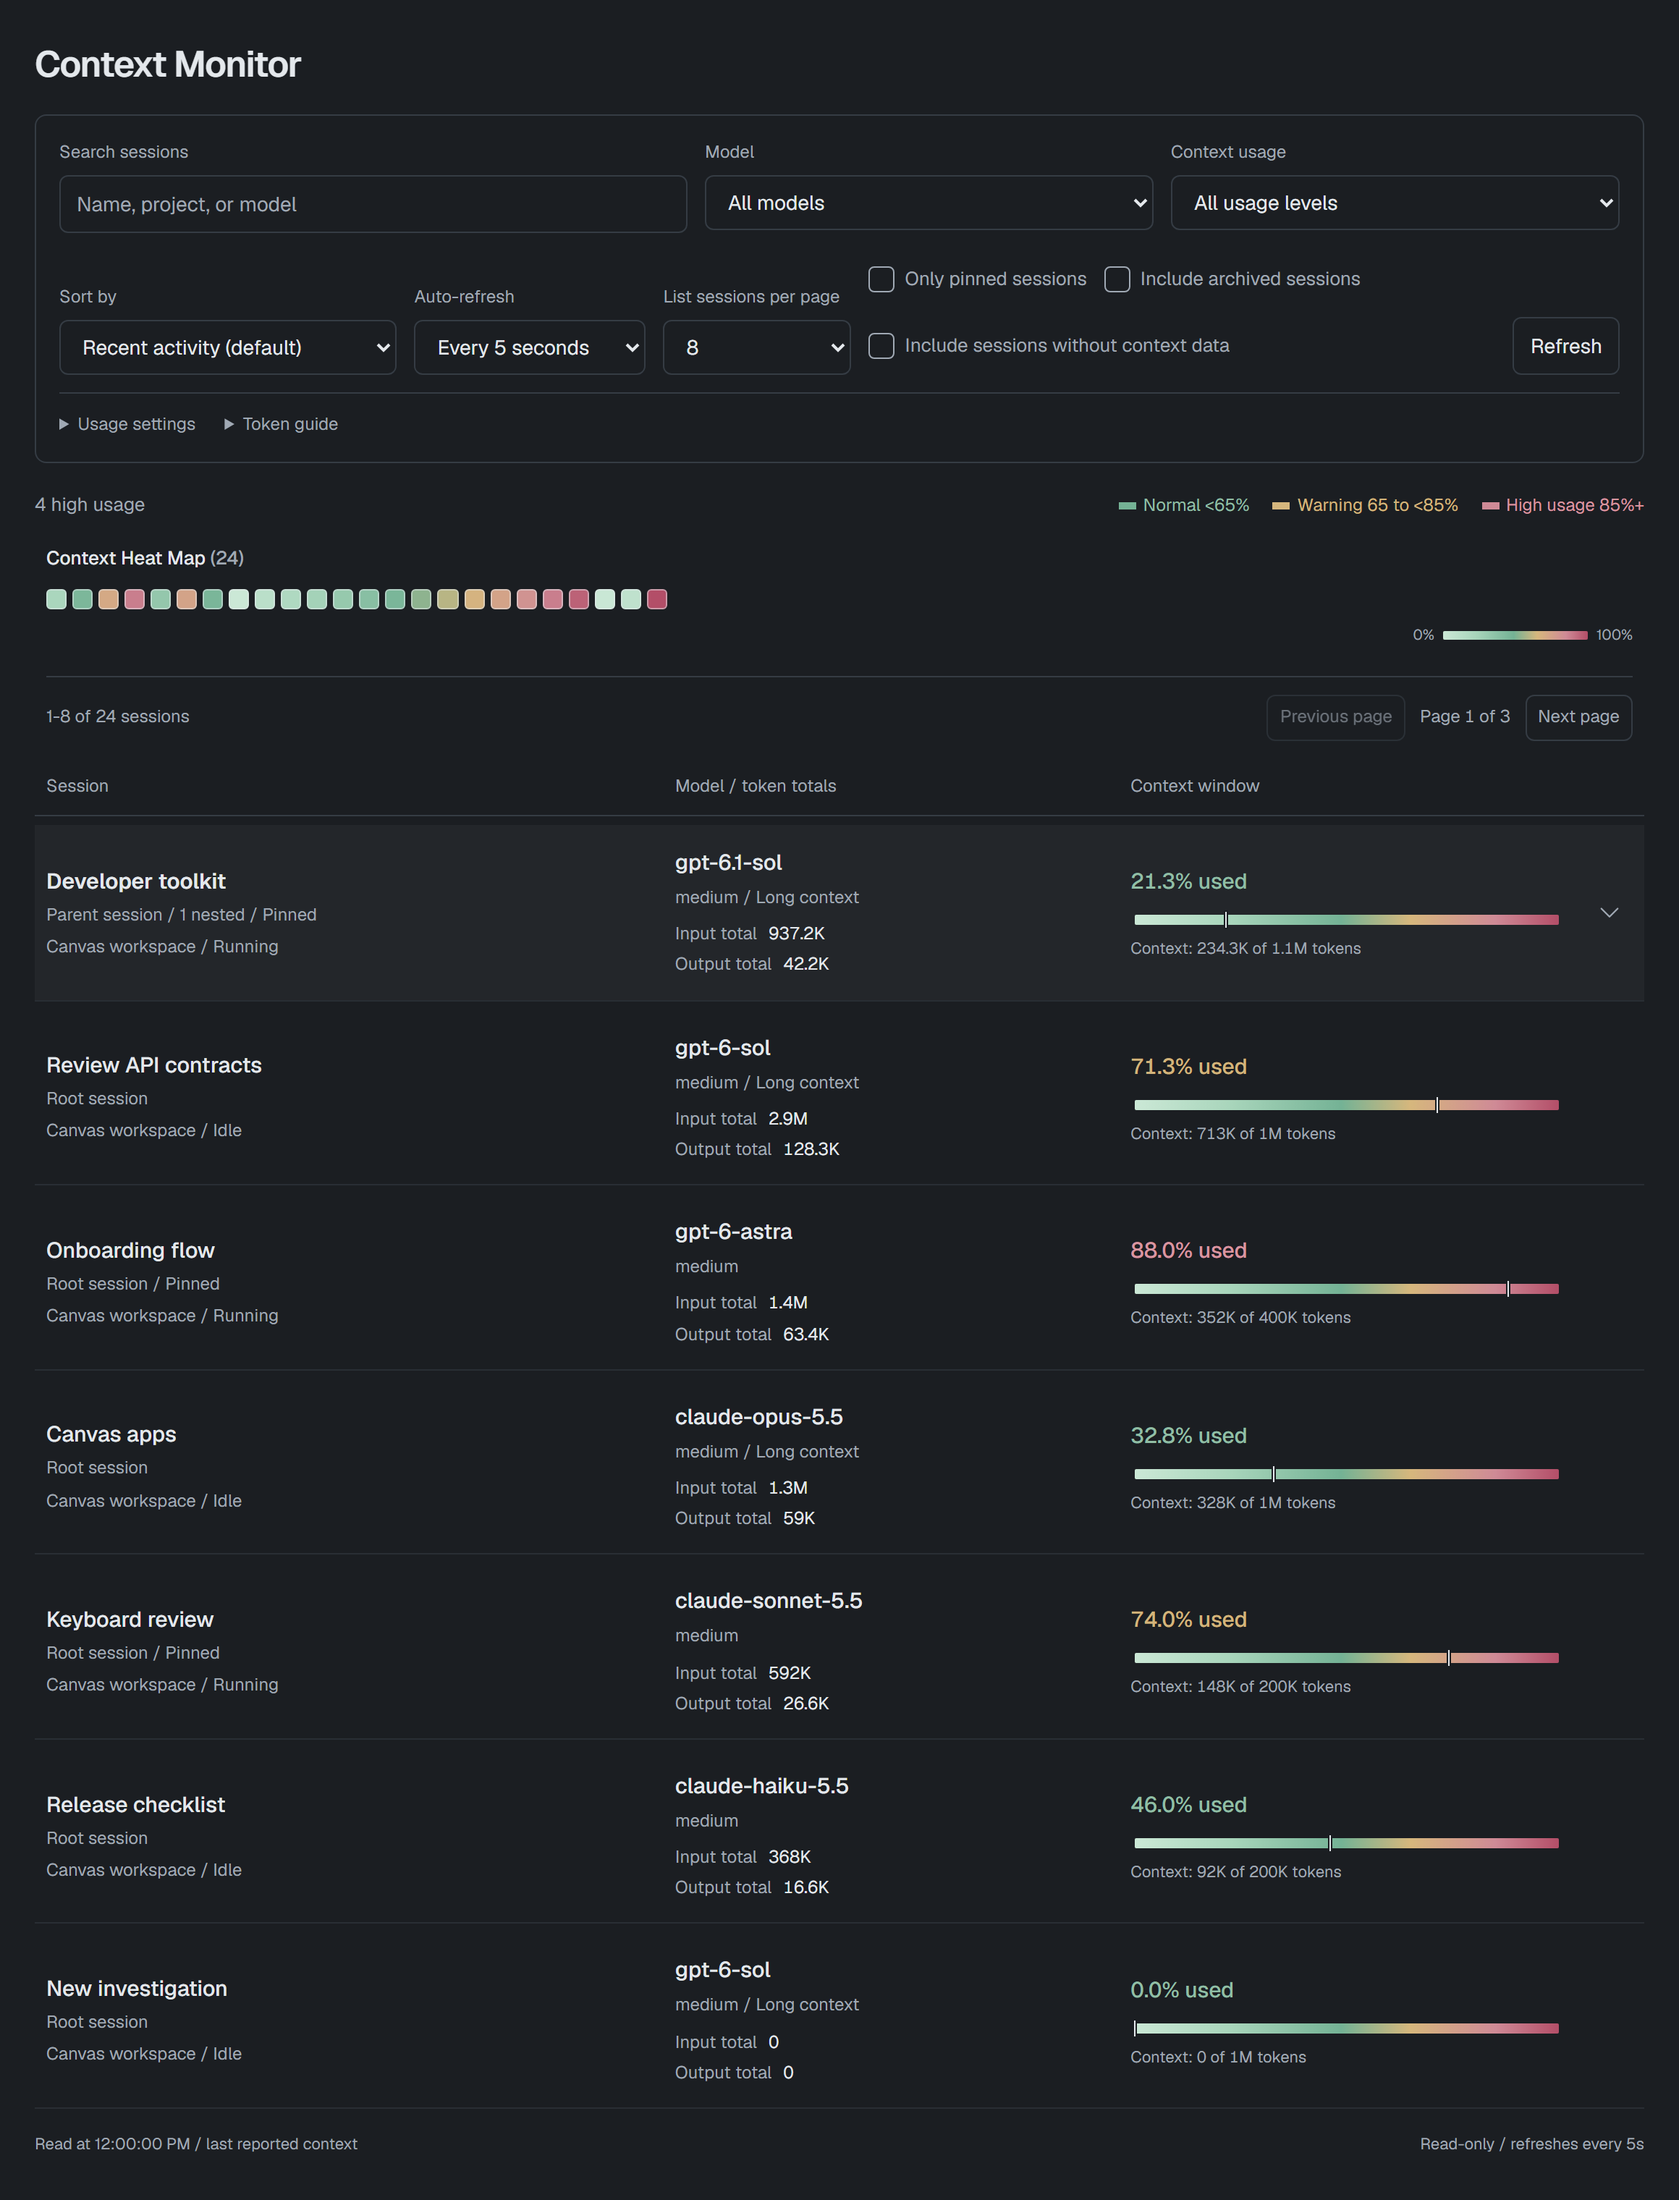
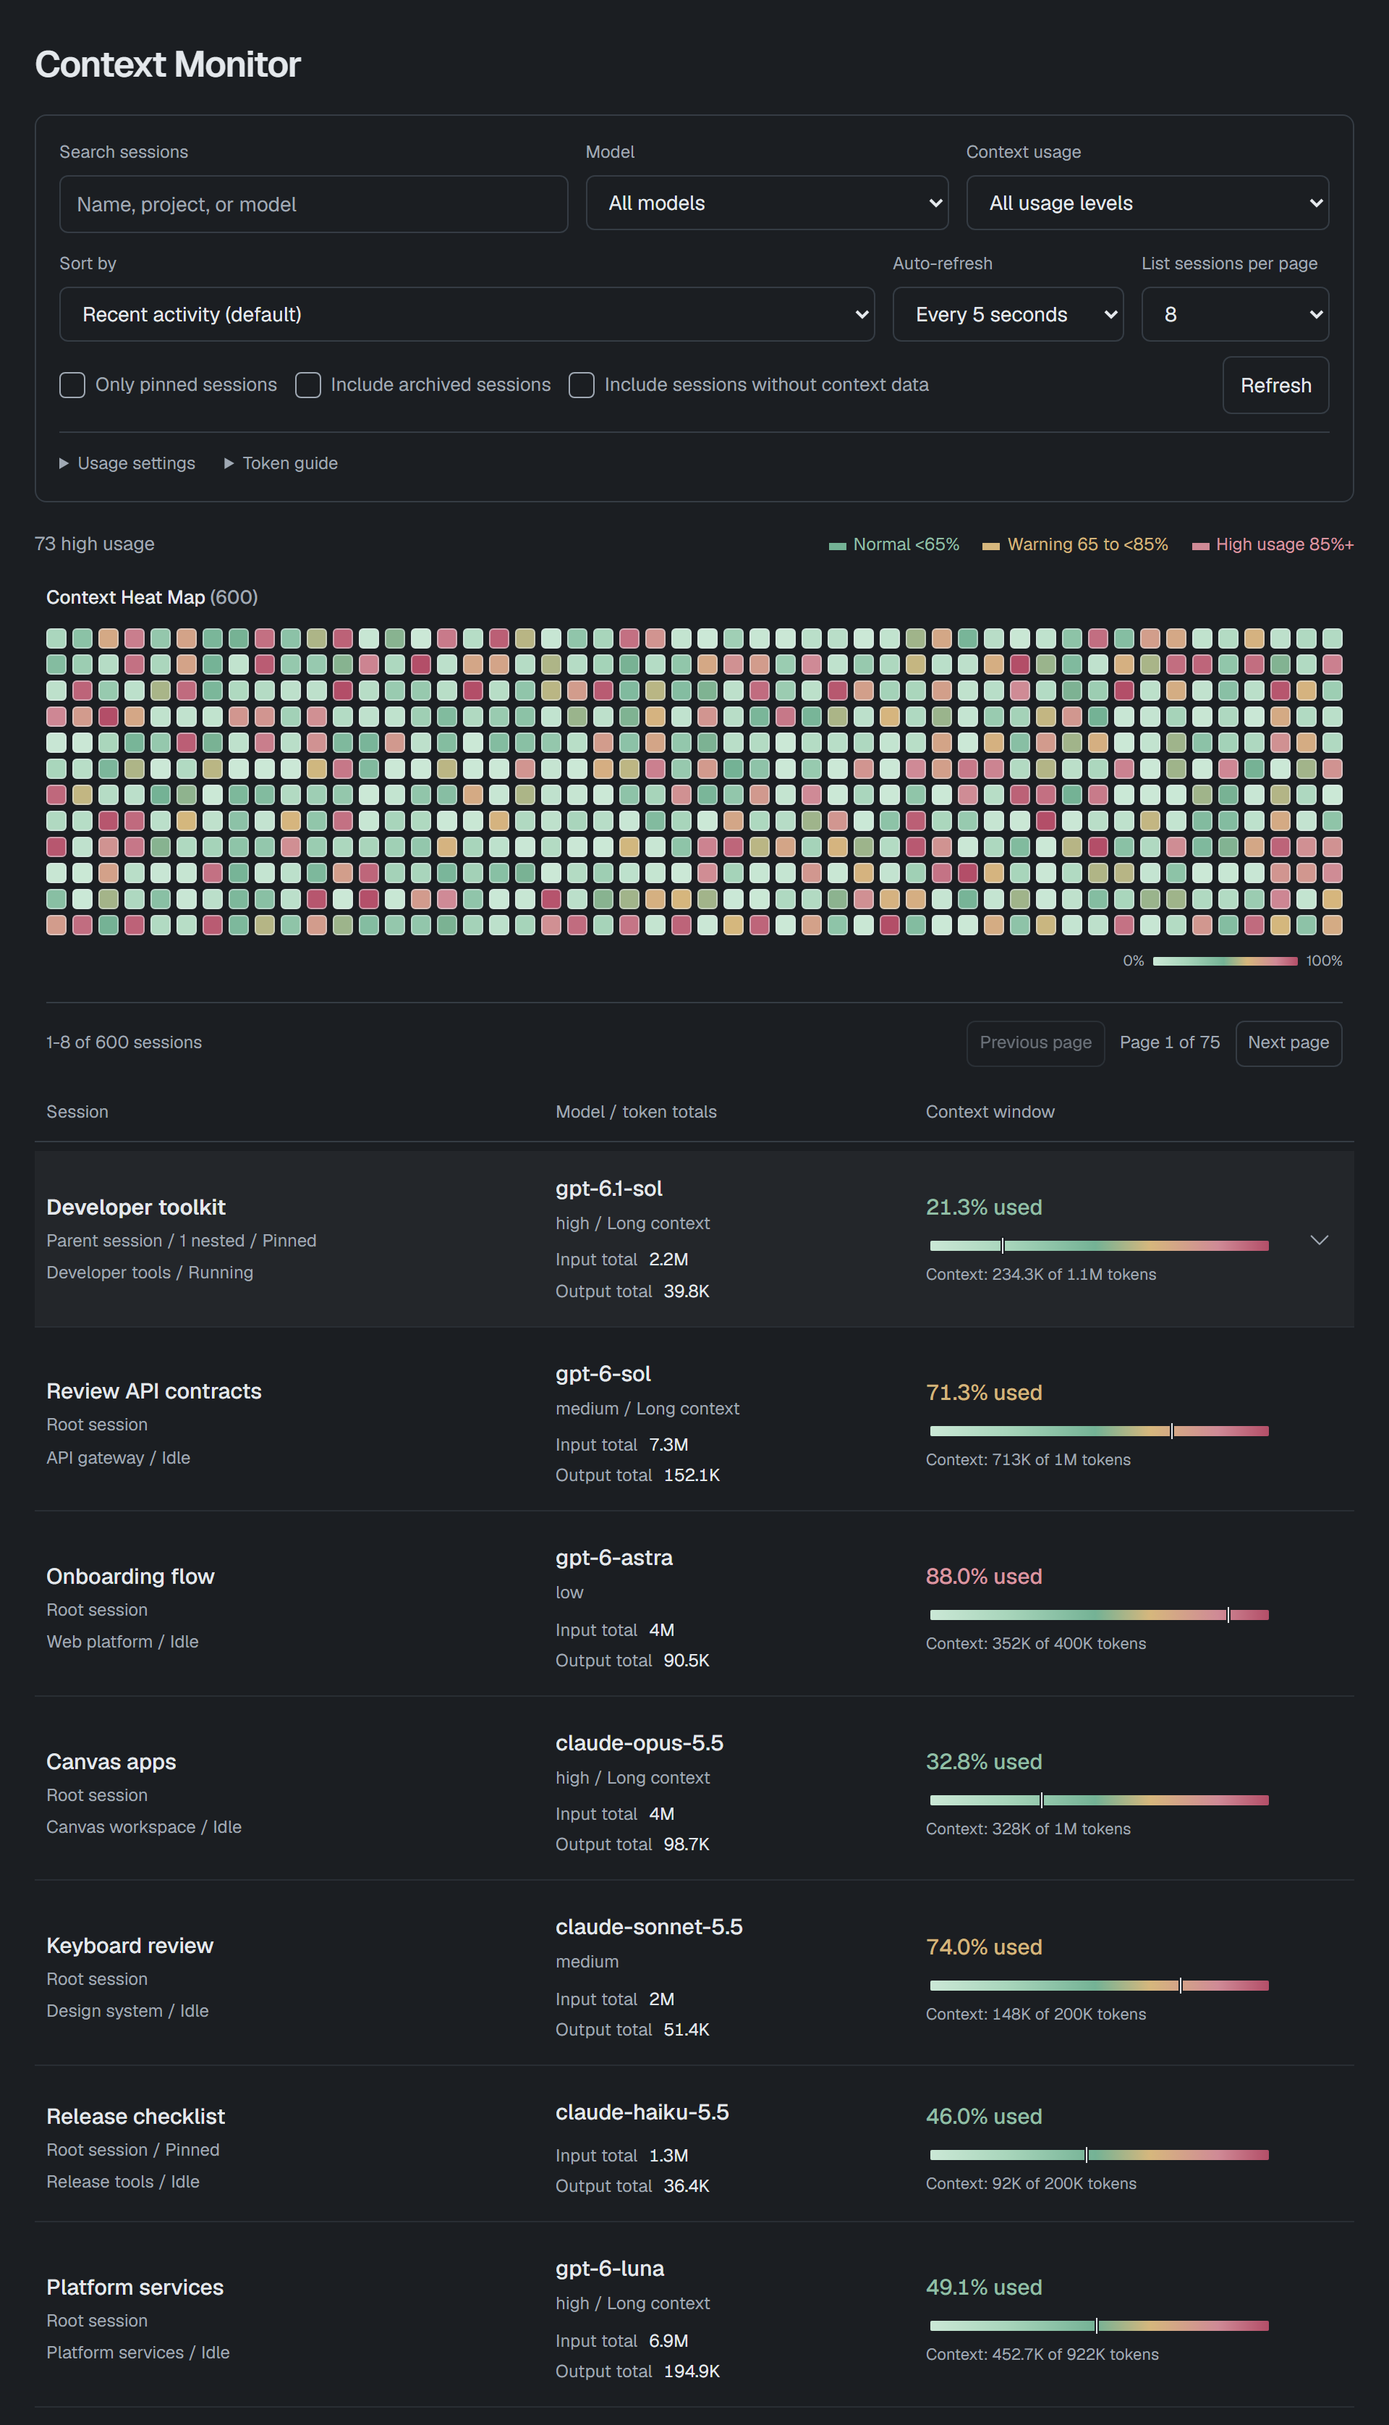
Refresh Context Monitor screenshots with 600 mocked sessions in both themes
Copilot-Session: 00babc8b-3aa2-4873-a4ea-72e82f7c85ed

diff --git a/apps/context-monitor/README.md b/apps/context-monitor/README.md
@@ -2,7 +2,7 @@
 
 See your GitHub Copilot app sessions, models, and context usage in one canvas.
 
-<a href="screenshot-full.png?v=37b4d151da0b"><img src="screenshot.png?v=fc7c961b61e9" alt="Context Monitor with paged sessions, a heat map, gradient usage bars, and sample GPT-6, GPT-6.1, and Claude sessions" width="640"></a>
+<a href="screenshot-full.png?v=088408fb0ae2"><img src="screenshot.png?v=d14737e9fe6e" alt="Context Monitor with a 600-session mock heat map, filters, pagination, and GPT and Claude sessions" width="640"></a>
 
 ## Use in the GitHub Copilot app
 
